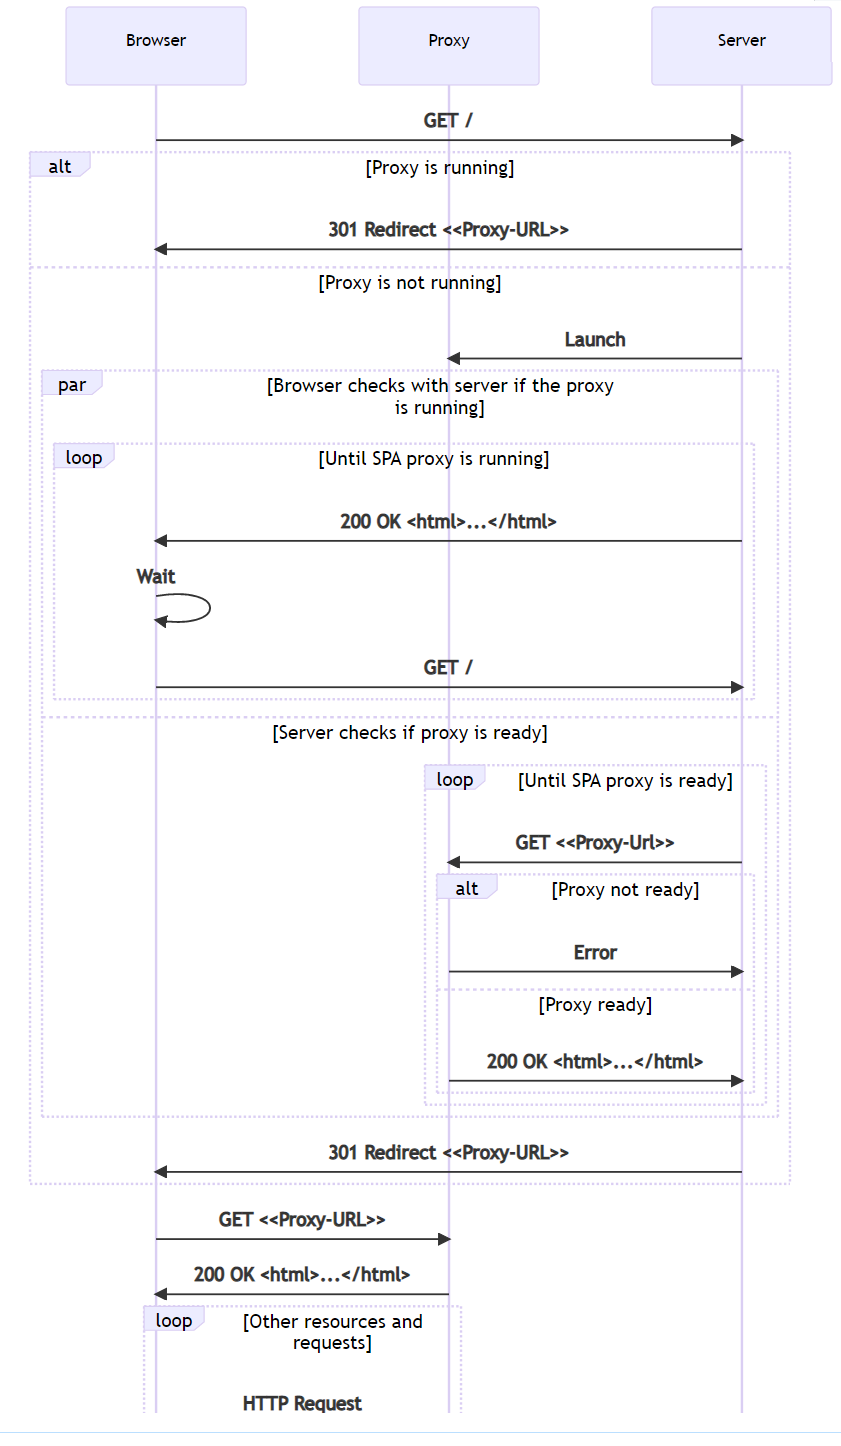
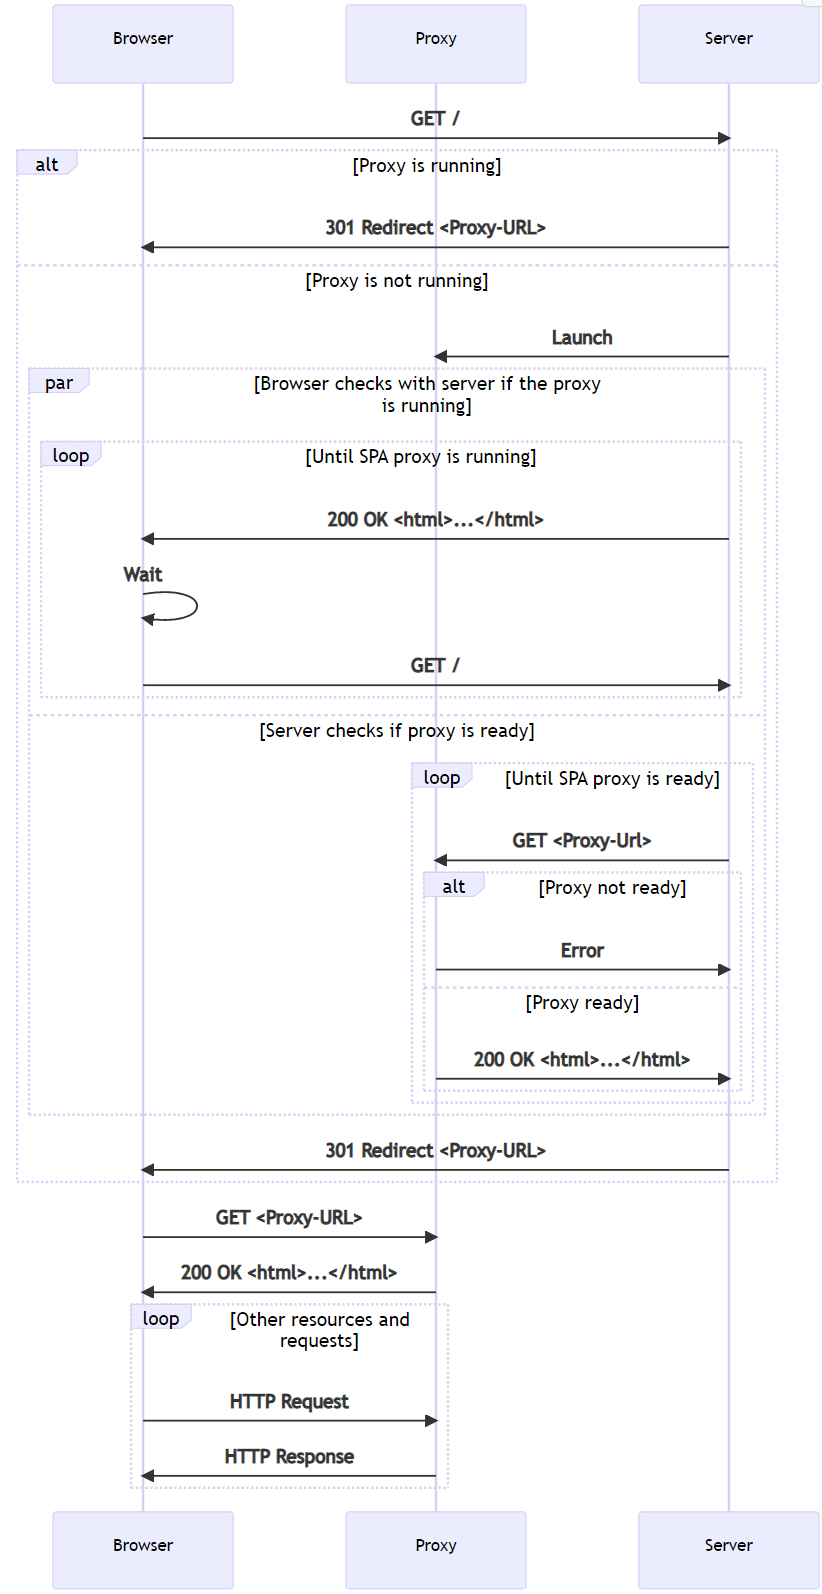
work

diff --git a/aspnetcore/client-side/spa/intro.md b/aspnetcore/client-side/spa/intro.md
@@ -11,15 +11,15 @@ uid: spa/intro
 
 ## Architecture of Single Page Application templates
 
-The Single Page Application (SPA] templates for [Angular](https://angular.io/) and [React](https://reactjs.org/) offer the ability to develop Angular and React applications that are hosted inside a .NET backend server.
+The Single Page Application (SPA) templates for [Angular](https://angular.io/) and [React](https://reactjs.org/) offer the ability to develop Angular and React apps that are hosted inside a .NET backend server.
 
 At publish time, the files of the Angular and React app are copied to the `wwwroot` folder and are served via the [static files middleware](xref:fundamentals/static-files).
 
-A fallback route handles unknown requests to the backend and serves the `index.html` for the SPA.
+Rather than returning HTTP 404 (Not Found), a fallback route handles unknown requests to the backend and serves the `index.html` for the SPA.
 
-During development, the app is configured to use the frontend proxy provided by [React](https://reactjs.org/) and [Angular](https://angular.io/). React and Angular use the same frontend proxy.
+During development, the app is configured to use the frontend proxy. React and Angular use the same frontend proxy.
 
-When the app launches, the `index.html`page is opened in the browser. A special middleware that is only enabled in development:
+When the app launches, the `index.html` page is opened in the browser. A special middleware that is only enabled in development:
 
 * Intercepts the incoming requests.
 * Checks whether the proxy is running.

diff --git a/aspnetcore/client-side/spa/intro/mermaid/includes/1_BPS.md b/aspnetcore/client-side/spa/intro/mermaid/includes/1_BPS.md
@@ -4,11 +4,11 @@ participant Browser
 participant Proxy
 participant Server
 Browser->>Server: GET /
-Proxy? Proxy is running
+alt Proxy is running
   Server->>Browser: 301 Redirect <Proxy-URL>
 else Proxy is not running
   Server->>Proxy: Launch
-  BrowserChecks Browser checks with server if the proxy is running
+  par Browser checks with server if the proxy is running
     loop Until SPA proxy is running
       Server->>Browser: 200 OK <html>...</html>
       Browser->>Browser: Wait
